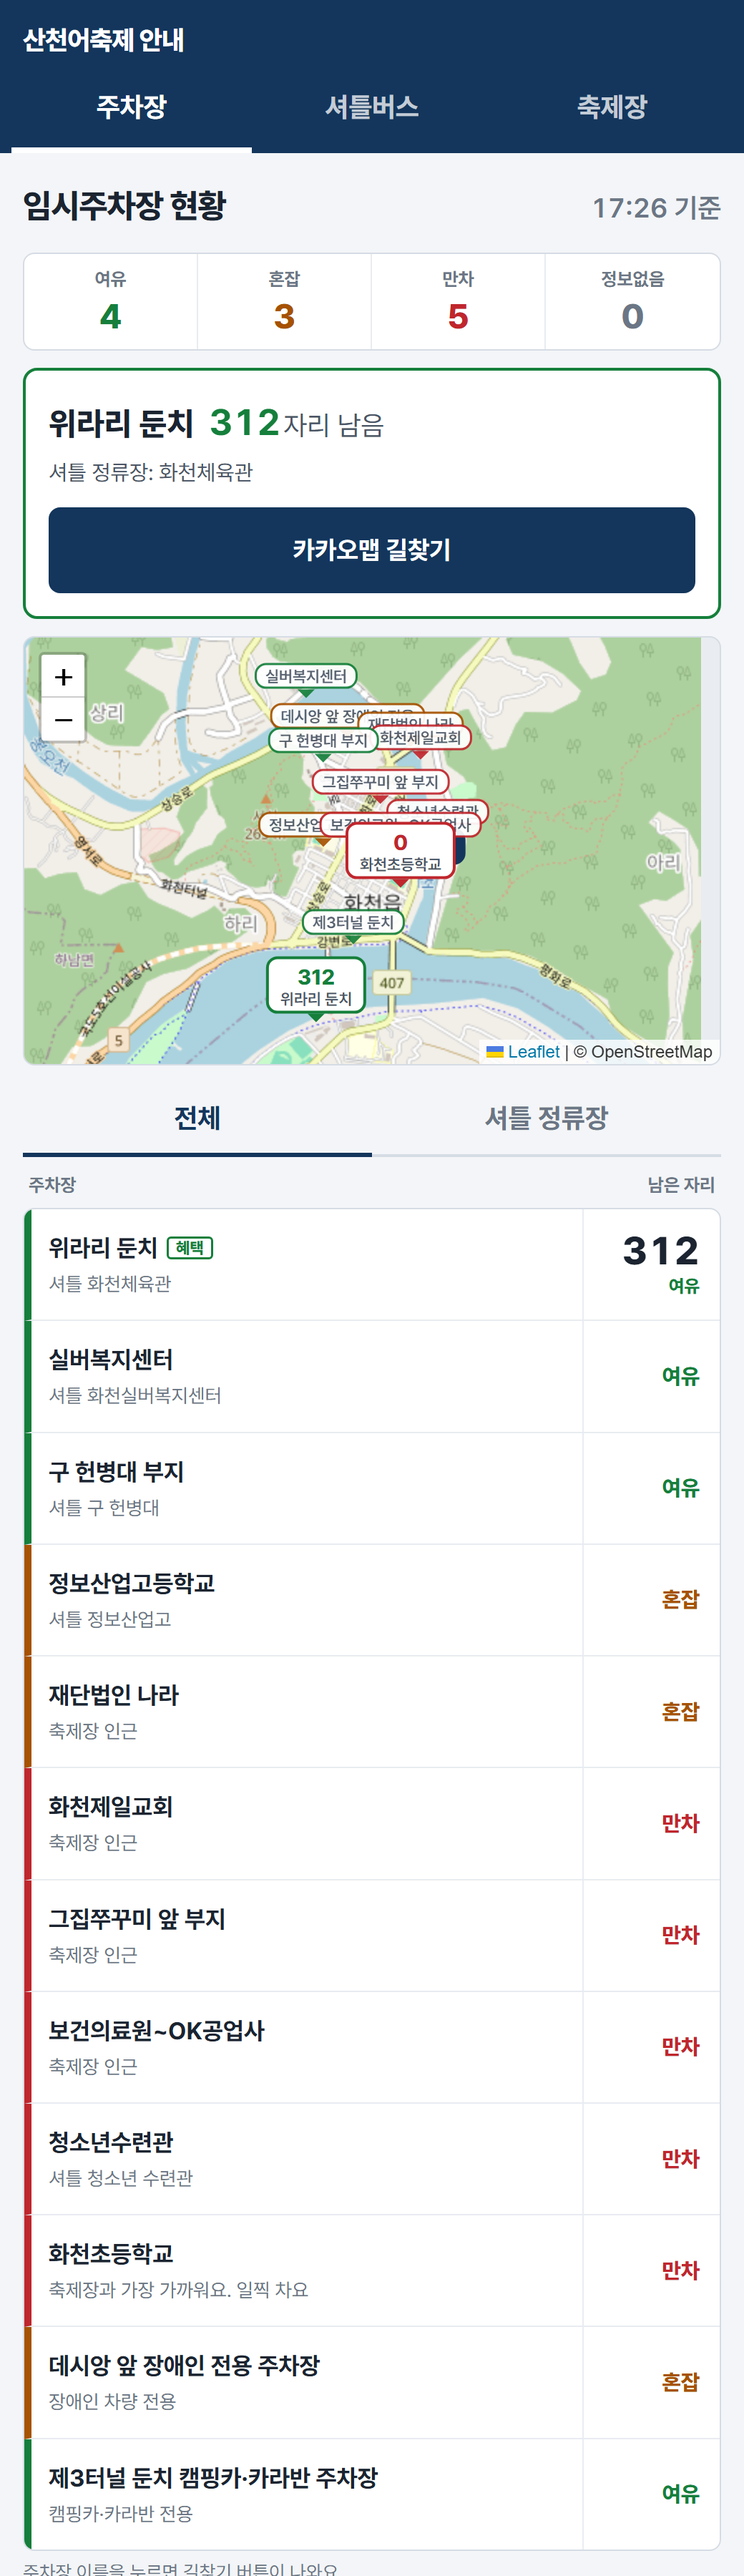
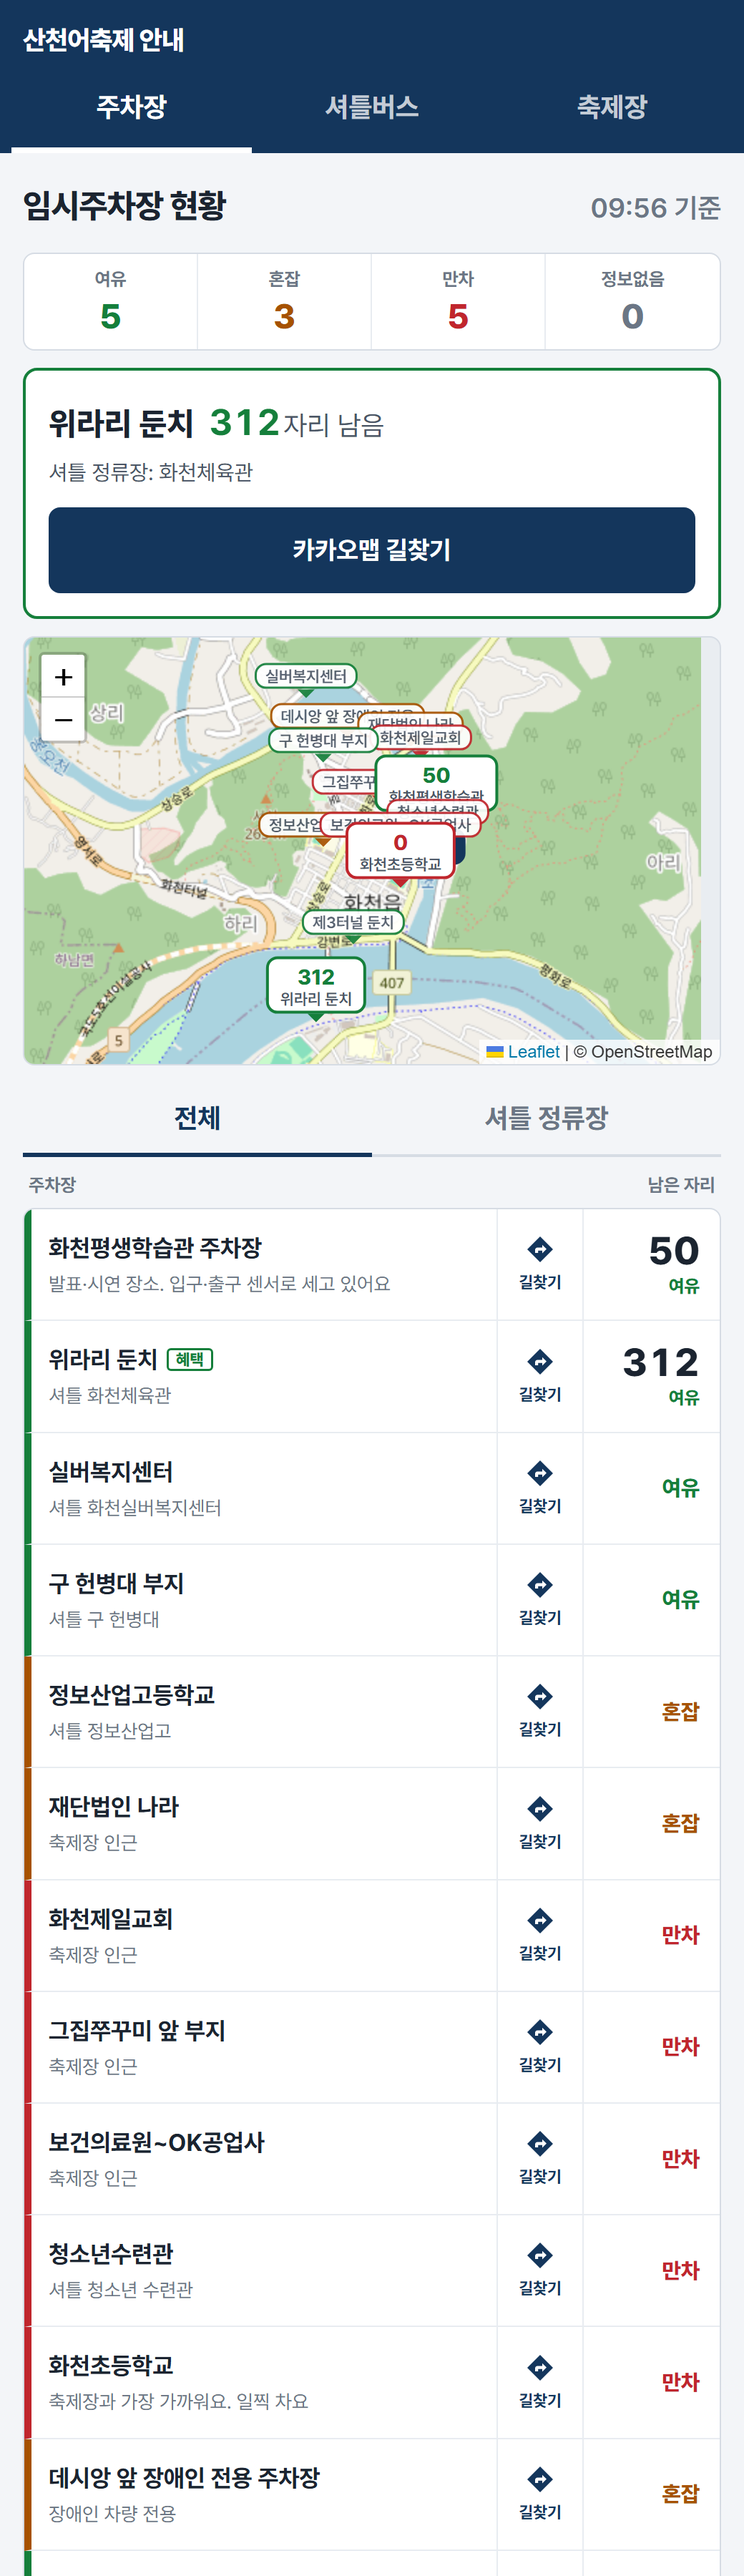
셔틀 버스 모양 표시(정류장 목록·지도·주차장 상세), 셔틀 지도 기본으로 펼침, 홈 목록 줄마다 길찾기 아이콘, 작은 범위 지도 여백

diff --git a/frontend/src/pages/ShuttlePage.jsx b/frontend/src/pages/ShuttlePage.jsx
@@ -3,6 +3,7 @@ import { api } from '../api.js'
 import { hhmm, usePolling } from '../lib.js'
 import Layout from '../components/Layout.jsx'
 import MapView, { esc } from '../components/MapView.jsx'
+import { BusIcon, busSvg } from '../components/Bus.jsx'
 
 const DAY = { MON: '월', TUE: '화', WED: '수', THU: '목', FRI: '금', SAT: '토', SUN: '일' }
 
@@ -21,7 +22,13 @@ function RouteMap({ r }) {
         html: `<div class="pin stop${s.festival ? ' fest' : ''}"><span>${esc(s.name)}</span></div>`,
         z: 2,
       })),
-      ...r.buses.map((b) => ({ id: `b${b.busNo}`, lat: b.lat, lng: b.lng, html: `<div class="pin bus"><b>${b.busNo}호차</b></div>`, z: 10 })),
+      ...r.buses.map((b) => ({
+        id: `b${b.busNo}`,
+        lat: b.lat,
+        lng: b.lng,
+        html: `<div class="bus-marker">${busSvg(30)}<b>${b.busNo}호차</b></div>`,
+        z: 10,
+      })),
     ],
     [r],
   )
@@ -29,11 +36,11 @@ function RouteMap({ r }) {
     const pts = r.stops.map((s) => [s.lat, s.lng])
     return pts.length ? [...pts, pts[0]] : pts
   }, [r])
-  return <MapView markers={markers} line={line} height={300} label="셔틀 노선 지도" />
+  return <MapView markers={markers} line={line} height={340} label="셔틀 노선과 버스 위치 지도" />
 }
 
 function RouteCard({ r }) {
-  const [showMap, setShowMap] = useState(false)
+  const [showMap, setShowMap] = useState(true)
   const days = r.days.split(',').map((d) => DAY[d]).join('·')
   const running = r.runningNow
 
@@ -46,6 +53,11 @@ function RouteCard({ r }) {
       <p className="shuttle-sum">
         <b>{r.intervalMinutes}분마다</b> · 무료 · {running ? `${hhmm(r.now)} 기준` : `다음 운행 ${r.serviceDate.slice(5).replace('-', '월 ')}일`}
       </p>
+
+      {showMap && <RouteMap r={r} />}
+      <button className="btn ghost map-toggle" onClick={() => setShowMap((v) => !v)}>
+        {showMap ? '지도 접기' : '지도 펼치기'}
+      </button>
 
       <ol className="line-route" aria-label="정류장 순서와 버스 위치">
         {r.stops.map((s) => (
@@ -73,8 +85,10 @@ function RouteCard({ r }) {
             </div>
             {busesAfter(r, s).map((b) => (
               <div key={b.busNo} className="bus-row">
-                <span className="bus-chip">{b.busNo}호차</span>
-                <span>다음 정류장까지 {b.minutesToNextStop}분</span>
+                <BusIcon size={30} />
+                <span>
+                  <b>{b.busNo}호차</b> {b.toStop}까지 {b.minutesToNextStop}분
+                </span>
               </div>
             ))}
           </li>
@@ -85,10 +99,7 @@ function RouteCard({ r }) {
         </li>
       </ol>
 
-      <button className="btn ghost big" onClick={() => setShowMap((v) => !v)}>
-        {showMap ? '지도 닫기' : '지도로 보기'}
-      </button>
-      {showMap && <RouteMap r={r} />}
+
 
       <p className="fine">
         {days} {hhmm(r.firstDeparture)}~{hhmm(r.lastDeparture)}, 버스 {r.busCount}대가 돌아요.

diff --git a/frontend/src/style.css b/frontend/src/style.css
@@ -300,7 +300,9 @@ input:focus, select:focus { border-color: var(--navy); }
 .fest-tag { align-self: flex-start; font-size: .8rem; font-weight: 800; color: var(--ok); }
 .stop-time { flex: none; text-align: right; font-size: .95rem; color: var(--ink-2); font-variant-numeric: tabular-nums; }
 .stop-time b { font-size: 1.7rem; font-weight: 800; color: var(--navy); margin-right: 2px; }
-.bus-row { display: flex; align-items: center; gap: 10px; padding: 0 0 10px; font-size: .9rem; color: var(--ink-2); }
+.bus-row { position: relative; display: flex; align-items: center; gap: 10px; padding: 2px 0 12px; font-size: .95rem; color: var(--ink-2); }
+.bus-row b { color: var(--navy); }
+.bus-row .bus-icon { position: relative; left: -36px; margin-right: -32px; background: var(--paper); border-radius: 6px; padding: 1px; line-height: 0; }
 .bus-chip { position: relative; left: -30px; margin-right: -30px; background: var(--navy); color: #fff; font-weight: 800; font-size: .85rem; border-radius: 6px; padding: 3px 8px; }
 .line-route > li.loop-back { min-height: 44px; display: flex; align-items: center; }
 .line-route > li.loop-back::before { bottom: 50%; }
@@ -324,3 +326,10 @@ input:focus, select:focus { border-color: var(--navy); }
 .zone-dot { width: 22px; height: 22px; transform: translate(-50%, -50%); cursor: pointer; }
 .zone-text { transform: translate(-50%, -50%); white-space: nowrap; font-family: 'Pretendard Variable', Pretendard, sans-serif; font-size: 13px; font-weight: 800; color: var(--c); cursor: pointer; text-shadow: 0 0 3px #fff, 0 0 3px #fff, 0 0 3px #fff, 0 0 3px #fff; }
 .bridge-text { transform: translate(-50%, -50%); white-space: nowrap; font-size: 11px; font-weight: 700; color: #4a5565; background: #e8ecf1; border-radius: 4px; padding: 0 5px; pointer-events: none; }
+.bus-icon { display: inline-block; line-height: 0; }
+.bus-marker { transform: translate(-50%, -100%); display: flex; flex-direction: column; align-items: center; cursor: default; }
+.bus-marker svg { filter: drop-shadow(0 0 2px #fff) drop-shadow(0 0 2px #fff); }
+.bus-marker b { font-family: 'Pretendard Variable', Pretendard, sans-serif; font-size: 11px; font-weight: 800; color: #fff; background: var(--navy); border-radius: 4px; padding: 0 4px; margin-top: 1px; }
+.map-toggle { margin: 8px 0 14px; min-height: 44px; }
+.lot-row-go { flex: none; width: 60px; display: flex; flex-direction: column; align-items: center; justify-content: center; gap: 2px; text-decoration: none; color: var(--navy); border-left: 1px solid var(--line-2); font-size: .72rem; font-weight: 700; }
+.lot-row-go:hover, .lot-row-go:focus-visible { background: var(--navy-soft); }

diff --git a/frontend/src/pages/LotPage.jsx b/frontend/src/pages/LotPage.jsx
@@ -1,16 +1,15 @@
-import { useEffect, useState } from 'react'
 import { Link, useParams } from 'react-router-dom'
 import { api } from '../api.js'
 import { hhmm, kakaoDirections, usePolling, walkMinutes, walkMinutesBetween } from '../lib.js'
 import MapView, { esc } from '../components/MapView.jsx'
+import { busSvg } from '../components/Bus.jsx'
 import Layout from '../components/Layout.jsx'
 import { LevelBadge, Remaining } from '../components/LotCard.jsx'
 
 function NextShuttle({ stopName, lot }) {
-  const [route, setRoute] = useState(null)
-  useEffect(() => {
-    api.shuttle().then((r) => setRoute(r[0])).catch(() => {})
-  }, [])
+  // 15초마다 다시 읽어 버스 위치·남은 시간이 움직이게
+  const { data: routes } = usePolling(api.shuttle, 15000)
+  const route = routes?.[0]
   if (!route || !stopName) return null
   const stop = route.stops.find((s) => s.name === stopName)
   if (!stop) return null
@@ -25,6 +24,14 @@ function NextShuttle({ stopName, lot }) {
         markers={[
           { id: 'lot', lat: lot.lat, lng: lot.lng, html: `<div class="pin"><b>P</b><span>${esc(lot.name.replace(/ ?임시주차장$/, ''))}</span></div>`, z: 3 },
           { id: 'stop', lat: stop.lat, lng: stop.lng, html: `<div class="pin bus"><b>셔틀</b><span>${esc(stop.name)}</span></div>`, z: 4 },
+          // 이 정류장으로 오고 있는 버스
+          ...route.buses
+            .filter((b) => b.toStop === stop.name)
+            .map((b) => ({ id: `b${b.busNo}`, lat: b.lat, lng: b.lng, html: `<div class="bus-marker">${busSvg(28)}<b>${b.busNo}호차</b></div>`, z: 6 })),
+        ]}
+        fitTo={[
+          [lot.lat, lot.lng],
+          [stop.lat, stop.lng],
         ]}
         line={[
           [lot.lat, lot.lng],

diff --git a/frontend/src/components/Bus.jsx b/frontend/src/components/Bus.jsx
@@ -1,0 +1,16 @@
+/** 셔틀버스 모양 (앞에서 본 버스). 지도 마커용 문자열과 화면용 컴포넌트가 같은 그림을 쓴다. */
+const PATH = `
+<rect x="3" y="2" width="22" height="20" rx="4" fill="currentColor"/>
+<rect x="6" y="5" width="16" height="7" rx="1.5" fill="#fff"/>
+<rect x="6" y="14" width="4" height="3" rx="1" fill="#ffd34d"/>
+<rect x="18" y="14" width="4" height="3" rx="1" fill="#ffd34d"/>
+<rect x="5" y="21" width="5" height="4" rx="1.5" fill="currentColor"/>
+<rect x="18" y="21" width="5" height="4" rx="1.5" fill="currentColor"/>`
+
+export function busSvg(size = 26, color = '#14365c') {
+  return `<svg width="${size}" height="${size}" viewBox="0 0 28 26" style="color:${color}" aria-hidden="true">${PATH}</svg>`
+}
+
+export function BusIcon({ size = 26, color = '#14365c' }) {
+  return <span className="bus-icon" aria-hidden dangerouslySetInnerHTML={{ __html: busSvg(size, color) }} />
+}

diff --git a/frontend/src/pages/Home.jsx b/frontend/src/pages/Home.jsx
@@ -27,6 +27,13 @@ function LotRow({ lot, selected, onSelect }) {
           {lot.shuttleStop ? `셔틀 ${lot.shuttleStop}` : lot.note ?? '축제장 인근'}
         </span>
       </button>
+      <a className="lot-row-go" href={kakaoDirections(lot)} target="_blank" rel="noreferrer" aria-label={`${lot.name} 카카오맵 길찾기`} title="길찾기">
+        <svg width="24" height="24" viewBox="0 0 24 24" aria-hidden="true">
+          <path d="M12 2.5 21 11.5 12 20.5 3 11.5Z" fill="currentColor" />
+          <path d="M8.5 14v-2.2c0-.9.7-1.6 1.6-1.6h3.4V8.4l3 2.9-3 2.9v-1.8h-2.9V14Z" fill="#fff" />
+        </svg>
+        <span>길찾기</span>
+      </a>
       <Link to={`/p/${lot.code}`} className="lot-row-num" aria-label={`${lot.name} 상세`}>
         {lot.remaining != null && lot.level !== 'CLOSED' && lot.level !== 'FULL' ? (
           <>

diff --git a/frontend/src/components/MapView.jsx b/frontend/src/components/MapView.jsx
@@ -155,9 +155,12 @@ export default function MapView({ markers, line, polygons, onMapClick, focus, he
     if (mm.kind === 'kakao') {
       const b = new mm.kakao.maps.LatLngBounds()
       pts.forEach(([a, c]) => b.extend(new mm.kakao.maps.LatLng(a, c)))
-      mm.m.setBounds(b, fitTo?.length ? 10 : 40, fitTo?.length ? 10 : 40, fitTo?.length ? 10 : 40, fitTo?.length ? 10 : 40)
+      // 넓은 범위(얼음판)는 꽉 차게, 점 두세 개(주차장·정류장)는 여백을 넉넉히
+      const pad = fitTo?.length > 4 ? 10 : 60
+      mm.m.setBounds(b, pad, pad, pad, pad)
     } else {
-      mm.m.fitBounds(pts, { padding: fitTo?.length ? [8, 8] : [36, 36] })
+      const pad = fitTo?.length > 4 ? 8 : fitTo?.length ? 60 : 36
+      mm.m.fitBounds(pts, { padding: [pad, pad], maxZoom: 17 })
     }
   }, [markers, engine, fitKey])
 
